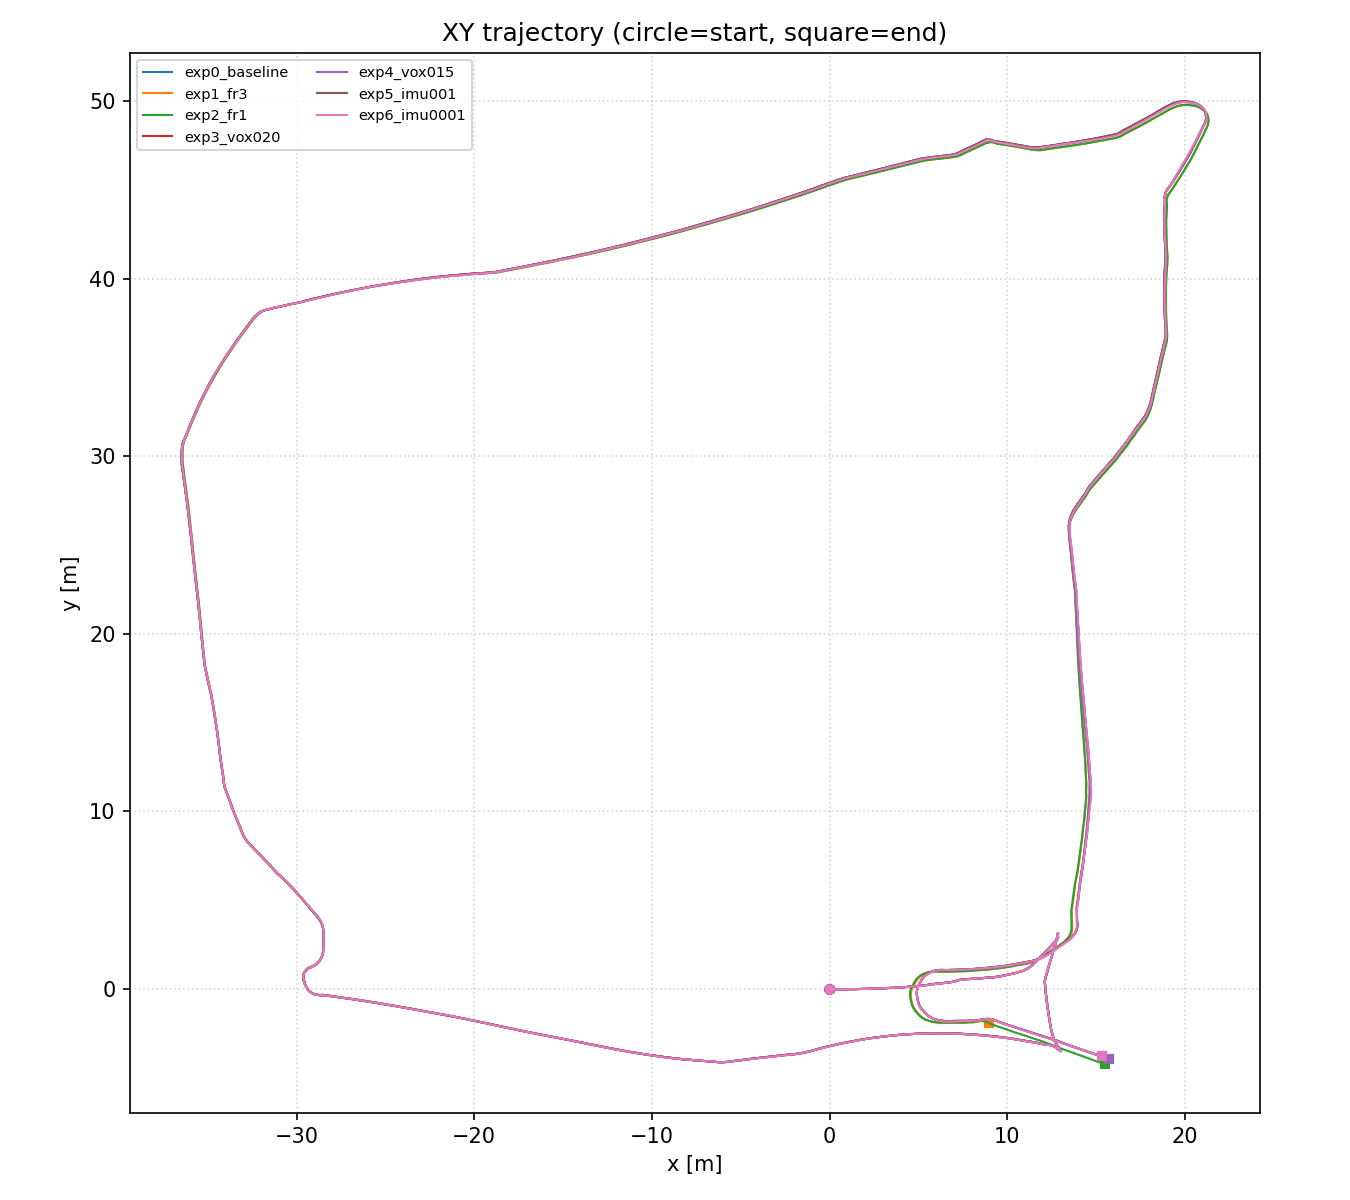
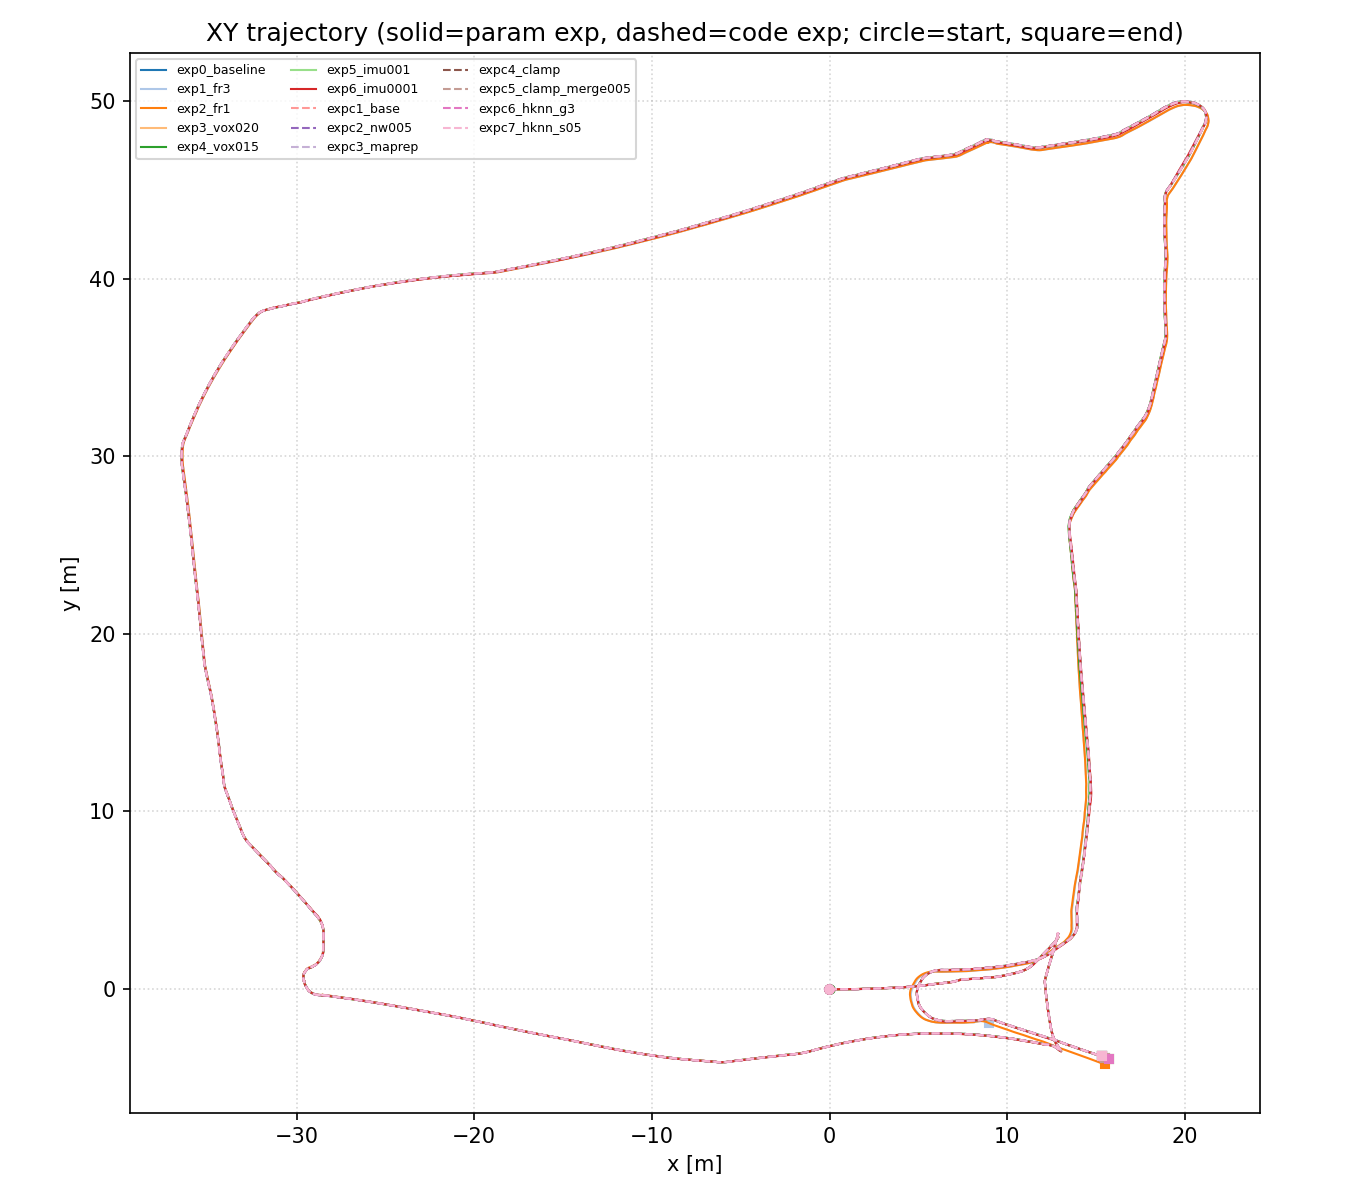
对比图纳入代码级实验，并剔除冒烟短跑
原图在 09:12 生成，只含前 7 组参数实验，后面的 expc* 未叠加：
- 跳过时长 <120 s 的跑（expc0_smoke）
- 配色换 tab20，参数实验实线、代码级实验虚线，避免 14 条重叠时混淆
- 地图俯视改为 3 列并降采样到 15 万点，控制图片体积

diff --git a/exp/plot.py b/exp/plot.py
@@ -30,25 +30,34 @@ def main():
         if odom is None:
             continue
         t, xyz = traj_arrays(odom)
-        runs.append((n, t - t[0], xyz))
+        t = t - t[0]
+        # 冒烟/中断的短跑不参与对比（如 expc0_smoke 只有 55 s）
+        if t[-1] < 120.0:
+            print("skip short run:", n, f"{t[-1]:.0f} s")
+            continue
+        runs.append((n, t, xyz))
     if not runs:
         print("no data")
         return 1
 
-    cmap = plt.get_cmap("tab10")
+    cmap = plt.get_cmap("tab20")
+
+    def style(n):
+        # 参数实验用实线，代码级实验（expc*）用虚线，避免颜色重复时混淆
+        return "--" if n.startswith("expc") else "-"
 
     # 图 1：XY 轨迹
     fig, ax = plt.subplots(figsize=(9, 8))
     for i, (n, t, xyz) in enumerate(runs):
-        ax.plot(xyz[:, 0], xyz[:, 1], lw=1.0, color=cmap(i % 10), label=n)
-        ax.plot(xyz[0, 0], xyz[0, 1], "o", ms=4, color=cmap(i % 10))
-        ax.plot(xyz[-1, 0], xyz[-1, 1], "s", ms=4, color=cmap(i % 10))
+        ax.plot(xyz[:, 0], xyz[:, 1], style(n), lw=1.0, color=cmap(i % 20), label=n)
+        ax.plot(xyz[0, 0], xyz[0, 1], "o", ms=4, color=cmap(i % 20))
+        ax.plot(xyz[-1, 0], xyz[-1, 1], "s", ms=4, color=cmap(i % 20))
     ax.set_aspect("equal")
     ax.set_xlabel("x [m]")
     ax.set_ylabel("y [m]")
-    ax.set_title("XY trajectory (circle=start, square=end)")
+    ax.set_title("XY trajectory (solid=param exp, dashed=code exp; circle=start, square=end)")
     ax.grid(True, ls=":", alpha=0.5)
-    ax.legend(fontsize=7, ncol=2)
+    ax.legend(fontsize=6, ncol=3)
     fig.tight_layout()
     fig.savefig(os.path.join(FIG, "traj_xy.png"), dpi=150)
     plt.close(fig)
@@ -56,20 +65,20 @@ def main():
     # 图 2：z(t)
     fig, ax = plt.subplots(figsize=(11, 5))
     for i, (n, t, xyz) in enumerate(runs):
-        ax.plot(t, xyz[:, 2], lw=1.0, color=cmap(i % 10), label=n)
+        ax.plot(t, xyz[:, 2], style(n), lw=1.0, color=cmap(i % 20), label=n)
     ax.set_xlabel("t [s] from first odom")
     ax.set_ylabel("z [m]")
-    ax.set_title("z drift")
+    ax.set_title("z drift (solid=param exp, dashed=code exp)")
     ax.grid(True, ls=":", alpha=0.5)
-    ax.legend(fontsize=7, ncol=2)
+    ax.legend(fontsize=6, ncol=3)
     fig.tight_layout()
     fig.savefig(os.path.join(FIG, "traj_z.png"), dpi=150)
     plt.close(fig)
 
     # 图 3：俯视地图
-    ncol = 2
+    ncol = 3
     nrow = int(np.ceil(len(runs) / ncol))
-    fig, axes = plt.subplots(nrow, ncol, figsize=(7 * ncol, 6 * nrow), squeeze=False)
+    fig, axes = plt.subplots(nrow, ncol, figsize=(6 * ncol, 5 * nrow), squeeze=False)
     for k, (n, t, xyz) in enumerate(runs):
         ax = axes[k // ncol][k % ncol]
         pts = pcd_points(os.path.join(ROOT, n, "map.pcd"))
@@ -79,8 +88,8 @@ def main():
             m = ((pts[:, 0] > lo[0]) & (pts[:, 0] < hi[0]) &
                  (pts[:, 1] > lo[1]) & (pts[:, 1] < hi[1]))
             sub = pts[m]
-            if len(sub) > 300000:
-                sub = sub[np.random.default_rng(0).choice(len(sub), 300000, replace=False)]
+            if len(sub) > 150000:
+                sub = sub[np.random.default_rng(0).choice(len(sub), 150000, replace=False)]
             ax.scatter(sub[:, 0], sub[:, 1], s=0.08, c=sub[:, 2], cmap="viridis", linewidths=0)
         ax.plot(xyz[:, 0], xyz[:, 1], "r-", lw=0.8)
         ax.set_aspect("equal")
@@ -90,7 +99,7 @@ def main():
         axes[k // ncol][k % ncol].axis("off")
     fig.suptitle("top view: map (color=z) + trajectory (red)")
     fig.tight_layout()
-    fig.savefig(os.path.join(FIG, "map_topview.png"), dpi=130)
+    fig.savefig(os.path.join(FIG, "map_topview.png"), dpi=100)
     plt.close(fig)
 
     print("figures ->", FIG)
